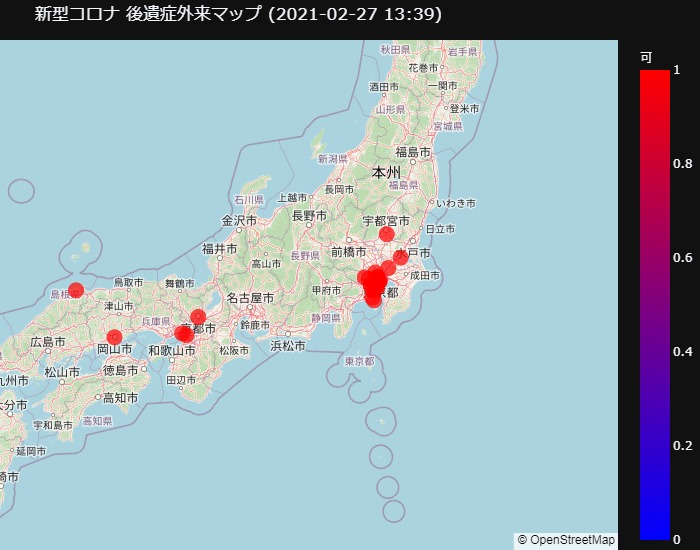
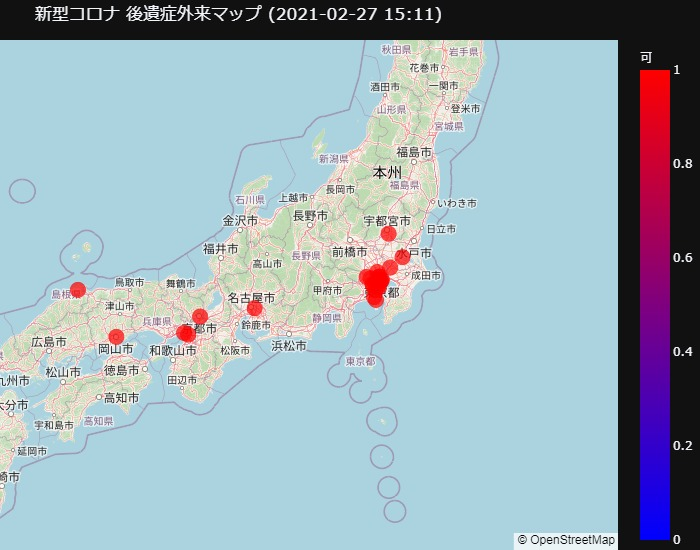
Updated with latest data.

diff --git a/docs/_includes/longcovid-map.html b/docs/_includes/longcovid-map.html
@@ -1,1 +1,1 @@
-<div>                            <div id="fe7bde73-db1b-4cf6-84f1-f7721412630e" class="plotly-graph-div" style="height:550px; width:100%;"></div>            <script type="text/javascript">                                    window.PLOTLYENV=window.PLOTLYENV || {};                                    if (document.getElementById("fe7bde73-db1b-4cf6-84f1-f7721412630e")) {                    Plotly.newPlot(                        "fe7bde73-db1b-4cf6-84f1-f7721412630e",                        [{"customdata": [["-", "-", "2\u9031\u9593\u4ee5\u4e0a\u7d4c\u904e"], ["?", "?", "?"], ["\u53ef", "-", "\u521d\u8a3a\u3067\u3082\u53ef"], ["?", "?", "?"], ["?", "?", "?"], ["-", "\u4e00\u65b9", "16\u6b73\u4ee5\u4e0a\u3001\u57fa\u672c\u306f\u6f22\u65b9"], ["-", "-", "2\u301c3\u30ab\u6708\u7d4c\u904e\u3001\u8af8\u75c7\u72b6\u6709"], ["\u53ef", "\u5fc5\u8981", "\u521d\u8a3a\u3067\u3082\u53ef"], ["?", "?", "\u57fa\u672c\u306f\u6f22\u65b9\u3001\u8981\u554f\u5408\u305b"], ["?", "?", "\u57fa\u672c\u306f\u6f22\u65b9\u3001\u8981\u554f\u5408\u305b"], ["?", "?", "\u57fa\u672c\u306f\u6f22\u65b9\u3001\u8981\u554f\u5408\u305b"], ["\u53ef", "-", "\u57fa\u672c\u306f\u6f22\u65b9\u3001\u81ea\u7531\u8a3a\u7642"], ["\u53ef", "-", "-"], ["-", "-", "\u55c5\u899a\u5473\u899a\u969c\u5bb3\u5916\u6765"], ["-", "\u5fc5\u8981", "2\u30ab\u6708\u4ee5\u4e0a\u7d4c\u904e"], ["-", "-", "\u6765\u9662\u304c\u57fa\u672c"], ["\u53ef", "-", "-"], ["-", "-", "\u9694\u96e2\u671f\u9593\u7d42\u4e86"], ["?", "?", "\u7642\u990a\u7d42\u4e86\u5f8c"], ["?", "?", "\u767a\u75c73\u9031\u9593\u5f8c"], ["-", "-", "\u9000\u9662/\u7642\u990a\u5f8c2\u304b\u6708"], ["-", "-", "\u521d\u8a3a\u306f\u5bfe\u9762\u8a3a\u5bdf/\u691c\u67fb"], ["-", "\u5fc5\u8981", "3\u30ab\u6708\u4ee5\u4e0a\u7d4c\u904e"], ["?", "?", "-"], ["-", "?", "-"], ["-", "\u5fc5\u8981", "1\u30ab\u6708\u4ee5\u4e0a\u7d4c\u904e"], ["\u53ef", "-", "\u5bfe\u9762\u8a3a\u7642\u306e\u53ef\u80fd\u6027\u6709"], ["-", "-", "-"], ["-", "-", "1\u30ab\u6708\u4ee5\u4e0a\u7d4c\u904e"]], "hovertemplate": "<b>%{hovertext}</b><br><br>\u53ef=%{marker.color}<br>\u7def\u5ea6=%{lat}<br>\u7d4c\u5ea6=%{lon}<br>\u30aa\u30f3\u30e9\u30a4\u30f3=%{customdata[0]}<br>\u7d39\u4ecb\u72b6=%{customdata[1]}<br>\u6761\u4ef6=%{customdata[2]}<extra></extra>", "hovertext": ["\u30a4\u30f3\u30bf\u30fc\u30d1\u30fc\u30af\u5009\u6301\u547c\u5438\u5668\u5185\u79d1", "\u3064\u3061\u3046\u3089\u6771\u53e3\u30af\u30ea\u30cb\u30c3\u30af", "\u30d2\u30e9\u30cf\u30bf\u30af\u30ea\u30cb\u30c3\u30af", "\u9663\u5185\u8033\u9f3b\u54bd\u5589\u79d1\u30af\u30ea\u30cb\u30c3\u30af", "\u65b0\u4e2d\u91ce\u8033\u9f3b\u54bd\u5589\u79d1\u30af\u30ea\u30cb\u30c3\u30af", "\u5bfa\u7530\u30af\u30ea\u30cb\u30c3\u30af", "\u3082\u3061\u3065\u304d\u8033\u9f3b\u54bd\u5589\u79d1", "\u5317\u91cc\u5927\u5b66\u6771\u6d0b\u533b\u5b66\u7dcf\u5408\u7814\u7a76\u6240", "\u5c0f\u91d1\u4e95\u3064\u308b\u304b\u3081\u30af\u30ea\u30cb\u30c3\u30af", "\u307f\u306e\u3084\u307e\u30af\u30ea\u30cb\u30c3\u30af", "\u307f\u306e\u3084\u307e\u30af\u30ea\u30cb\u30c3\u30af\u7acb\u5ddd", "\u6771\u6587\u4e2d\u91ab\u30af\u30ea\u30cb\u30c3\u30af\u30fb\u65b0\u6a4b", "\u516c\u5e73\u75c5\u9662", "\u30af\u30ea\u30cb\u30c3\u30af\u67cf\u306e\u8449", "\u8056\u30de\u30ea\u30a2\u30f3\u30ca\u533b\u79d1\u5927\u5b66\u75c5\u9662", "\u6a2a\u6d5c\u304b\u3093\u3060\u3044\u3058\u30d5\u30a1\u30df\u30ea\u30fc\u30af\u30ea\u30cb\u30c3\u30af", "\u68b6\u304c\u8c37\u99c5\u524d\u30af\u30ea\u30cb\u30c3\u30af", "\u65b0\u5ddd\u5d0e\u3080\u3089\u305b\u5185\u79d1\u5faa\u74b0\u5668\u5185\u79d1", "\u6a2a\u6d5c\u307f\u306a\u3068\u547c\u5438\u5668\u5185\u79d1", "\u6e58\u5357\u75c5\u9662", "\u7b2c\u4e8c\u5ddd\u5d0e\u5e78\u30af\u30ea\u30cb\u30c3\u30af", "\u571f\u5c4b\u8a18\u5ff5\u30af\u30ea\u30cb\u30c3\u30af", "\u30ca\u30ab\u30c8\u30df\u30d5\u30a1\u30c6\u30a3\u30fc\u30b0\u30b1\u30a2\u30af\u30ea\u30cb\u30c3\u30af", "\u5fa1\u6240\u5357\u306f\u3089\u3057\u307e\u30af\u30ea\u30cb\u30c3\u30af", "\u9577\u5c3e\u30af\u30ea\u30cb\u30c3\u30af", "\u5ca1\u5c71\u5927\u5b66\u75c5\u9662", "\u798f\u7530\u5185\u79d1\u30af\u30ea\u30cb\u30c3\u30af", "\u5929\u795e\u3051\u3084\u304d\u30af\u30ea\u30cb\u30c3\u30af", "\u307f\u3089\u3044\u30af\u30ea\u30cb\u30c3\u30af"], "lat": [36.49421483, 36.07817712, 35.66099144, 35.67554272, 35.69746127, 35.72952117, 35.73184532, 35.64615518, 35.70092207, 35.65562198, 35.72698343, 35.66930295, 35.81312769, 35.89270812, 35.60075469, 35.48523182, 35.5937929, 35.55188904, 35.36818996, 35.31605077, 35.53647462, 35.57040779, 34.690363399999995, 35.01644912, 34.72288787, 34.65090647, 35.49501807, 33.58607487, 33.59038441], "legendgroup": "", "lon": [139.9027937, 140.207013, 139.70208080000003, 139.6681197, 139.6692997, 139.6931743, 139.7026409, 139.72627219999998, 139.5058372, 139.73607180000002, 139.4179435, 139.7537904, 139.6527044, 139.9377533, 139.5488861, 139.61037869999998, 139.6063036, 139.6629341, 139.58114630000003, 139.6242106, 139.689216, 139.55500580000003, 135.49824080000002, 135.76120600000002, 135.4083263, 133.9206308, 133.0761817, 130.3950466, 130.423525], "marker": {"color": [1, 1, 1, 1, 1, 1, 1, 1, 1, 1, 1, 1, 1, 1, 1, 1, 1, 1, 1, 1, 1, 1, 1, 1, 1, 1, 1, 0, 1], "coloraxis": "coloraxis", "size": [1, 1, 1, 1, 1, 1, 1, 1, 1, 1, 1, 1, 1, 1, 1, 1, 1, 1, 1, 1, 1, 1, 1, 1, 1, 1, 1, 0, 1], "sizemode": "area", "sizeref": 0.006944444444444444}, "mode": "markers", "name": "", "showlegend": false, "subplot": "mapbox", "type": "scattermapbox"}],                        {"coloraxis": {"colorbar": {"title": {"text": "\u53ef"}}, "colorscale": [[0.0, "rgb(0,0,255)"], [1.0, "rgb(255,0,0)"]]}, "height": 550, "legend": {"itemsizing": "constant", "tracegroupgap": 0}, "mapbox": {"center": {"lat": 35.41198107206896, "lon": 138.19437011379313}, "domain": {"x": [0.0, 1.0], "y": [0.0, 1.0]}, "style": "open-street-map", "zoom": 5}, "margin": {"b": 0, "l": 0, "r": 0, "t": 40}, "template": {"data": {"bar": [{"error_x": {"color": "#f2f5fa"}, "error_y": {"color": "#f2f5fa"}, "marker": {"line": {"color": "rgb(17,17,17)", "width": 0.5}}, "type": "bar"}], "barpolar": [{"marker": {"line": {"color": "rgb(17,17,17)", "width": 0.5}}, "type": "barpolar"}], "carpet": [{"aaxis": {"endlinecolor": "#A2B1C6", "gridcolor": "#506784", "linecolor": "#506784", "minorgridcolor": "#506784", "startlinecolor": "#A2B1C6"}, "baxis": {"endlinecolor": "#A2B1C6", "gridcolor": "#506784", "linecolor": "#506784", "minorgridcolor": "#506784", "startlinecolor": "#A2B1C6"}, "type": "carpet"}], "choropleth": [{"colorbar": {"outlinewidth": 0, "ticks": ""}, "type": "choropleth"}], "contour": [{"colorbar": {"outlinewidth": 0, "ticks": ""}, "colorscale": [[0.0, "#0d0887"], [0.1111111111111111, "#46039f"], [0.2222222222222222, "#7201a8"], [0.3333333333333333, "#9c179e"], [0.4444444444444444, "#bd3786"], [0.5555555555555556, "#d8576b"], [0.6666666666666666, "#ed7953"], [0.7777777777777778, "#fb9f3a"], [0.8888888888888888, "#fdca26"], [1.0, "#f0f921"]], "type": "contour"}], "contourcarpet": [{"colorbar": {"outlinewidth": 0, "ticks": ""}, "type": "contourcarpet"}], "heatmap": [{"colorbar": {"outlinewidth": 0, "ticks": ""}, "colorscale": [[0.0, "#0d0887"], [0.1111111111111111, "#46039f"], [0.2222222222222222, "#7201a8"], [0.3333333333333333, "#9c179e"], [0.4444444444444444, "#bd3786"], [0.5555555555555556, "#d8576b"], [0.6666666666666666, "#ed7953"], [0.7777777777777778, "#fb9f3a"], [0.8888888888888888, "#fdca26"], [1.0, "#f0f921"]], "type": "heatmap"}], "heatmapgl": [{"colorbar": {"outlinewidth": 0, "ticks": ""}, "colorscale": [[0.0, "#0d0887"], [0.1111111111111111, "#46039f"], [0.2222222222222222, "#7201a8"], [0.3333333333333333, "#9c179e"], [0.4444444444444444, "#bd3786"], [0.5555555555555556, "#d8576b"], [0.6666666666666666, "#ed7953"], [0.7777777777777778, "#fb9f3a"], [0.8888888888888888, "#fdca26"], [1.0, "#f0f921"]], "type": "heatmapgl"}], "histogram": [{"marker": {"colorbar": {"outlinewidth": 0, "ticks": ""}}, "type": "histogram"}], "histogram2d": [{"colorbar": {"outlinewidth": 0, "ticks": ""}, "colorscale": [[0.0, "#0d0887"], [0.1111111111111111, "#46039f"], [0.2222222222222222, "#7201a8"], [0.3333333333333333, "#9c179e"], [0.4444444444444444, "#bd3786"], [0.5555555555555556, "#d8576b"], [0.6666666666666666, "#ed7953"], [0.7777777777777778, "#fb9f3a"], [0.8888888888888888, "#fdca26"], [1.0, "#f0f921"]], "type": "histogram2d"}], "histogram2dcontour": [{"colorbar": {"outlinewidth": 0, "ticks": ""}, "colorscale": [[0.0, "#0d0887"], [0.1111111111111111, "#46039f"], [0.2222222222222222, "#7201a8"], [0.3333333333333333, "#9c179e"], [0.4444444444444444, "#bd3786"], [0.5555555555555556, "#d8576b"], [0.6666666666666666, "#ed7953"], [0.7777777777777778, "#fb9f3a"], [0.8888888888888888, "#fdca26"], [1.0, "#f0f921"]], "type": "histogram2dcontour"}], "mesh3d": [{"colorbar": {"outlinewidth": 0, "ticks": ""}, "type": "mesh3d"}], "parcoords": [{"line": {"colorbar": {"outlinewidth": 0, "ticks": ""}}, "type": "parcoords"}], "pie": [{"automargin": true, "type": "pie"}], "scatter": [{"marker": {"line": {"color": "#283442"}}, "type": "scatter"}], "scatter3d": [{"line": {"colorbar": {"outlinewidth": 0, "ticks": ""}}, "marker": {"colorbar": {"outlinewidth": 0, "ticks": ""}}, "type": "scatter3d"}], "scattercarpet": [{"marker": {"colorbar": {"outlinewidth": 0, "ticks": ""}}, "type": "scattercarpet"}], "scattergeo": [{"marker": {"colorbar": {"outlinewidth": 0, "ticks": ""}}, "type": "scattergeo"}], "scattergl": [{"marker": {"line": {"color": "#283442"}}, "type": "scattergl"}], "scattermapbox": [{"marker": {"colorbar": {"outlinewidth": 0, "ticks": ""}}, "type": "scattermapbox"}], "scatterpolar": [{"marker": {"colorbar": {"outlinewidth": 0, "ticks": ""}}, "type": "scatterpolar"}], "scatterpolargl": [{"marker": {"colorbar": {"outlinewidth": 0, "ticks": ""}}, "type": "scatterpolargl"}], "scatterternary": [{"marker": {"colorbar": {"outlinewidth": 0, "ticks": ""}}, "type": "scatterternary"}], "surface": [{"colorbar": {"outlinewidth": 0, "ticks": ""}, "colorscale": [[0.0, "#0d0887"], [0.1111111111111111, "#46039f"], [0.2222222222222222, "#7201a8"], [0.3333333333333333, "#9c179e"], [0.4444444444444444, "#bd3786"], [0.5555555555555556, "#d8576b"], [0.6666666666666666, "#ed7953"], [0.7777777777777778, "#fb9f3a"], [0.8888888888888888, "#fdca26"], [1.0, "#f0f921"]], "type": "surface"}], "table": [{"cells": {"fill": {"color": "#506784"}, "line": {"color": "rgb(17,17,17)"}}, "header": {"fill": {"color": "#2a3f5f"}, "line": {"color": "rgb(17,17,17)"}}, "type": "table"}]}, "layout": {"annotationdefaults": {"arrowcolor": "#f2f5fa", "arrowhead": 0, "arrowwidth": 1}, "autotypenumbers": "strict", "coloraxis": {"colorbar": {"outlinewidth": 0, "ticks": ""}}, "colorscale": {"diverging": [[0, "#8e0152"], [0.1, "#c51b7d"], [0.2, "#de77ae"], [0.3, "#f1b6da"], [0.4, "#fde0ef"], [0.5, "#f7f7f7"], [0.6, "#e6f5d0"], [0.7, "#b8e186"], [0.8, "#7fbc41"], [0.9, "#4d9221"], [1, "#276419"]], "sequential": [[0.0, "#0d0887"], [0.1111111111111111, "#46039f"], [0.2222222222222222, "#7201a8"], [0.3333333333333333, "#9c179e"], [0.4444444444444444, "#bd3786"], [0.5555555555555556, "#d8576b"], [0.6666666666666666, "#ed7953"], [0.7777777777777778, "#fb9f3a"], [0.8888888888888888, "#fdca26"], [1.0, "#f0f921"]], "sequentialminus": [[0.0, "#0d0887"], [0.1111111111111111, "#46039f"], [0.2222222222222222, "#7201a8"], [0.3333333333333333, "#9c179e"], [0.4444444444444444, "#bd3786"], [0.5555555555555556, "#d8576b"], [0.6666666666666666, "#ed7953"], [0.7777777777777778, "#fb9f3a"], [0.8888888888888888, "#fdca26"], [1.0, "#f0f921"]]}, "colorway": ["#636efa", "#EF553B", "#00cc96", "#ab63fa", "#FFA15A", "#19d3f3", "#FF6692", "#B6E880", "#FF97FF", "#FECB52"], "font": {"color": "#f2f5fa"}, "geo": {"bgcolor": "rgb(17,17,17)", "lakecolor": "rgb(17,17,17)", "landcolor": "rgb(17,17,17)", "showlakes": true, "showland": true, "subunitcolor": "#506784"}, "hoverlabel": {"align": "left"}, "hovermode": "closest", "mapbox": {"style": "dark"}, "paper_bgcolor": "rgb(17,17,17)", "plot_bgcolor": "rgb(17,17,17)", "polar": {"angularaxis": {"gridcolor": "#506784", "linecolor": "#506784", "ticks": ""}, "bgcolor": "rgb(17,17,17)", "radialaxis": {"gridcolor": "#506784", "linecolor": "#506784", "ticks": ""}}, "scene": {"xaxis": {"backgroundcolor": "rgb(17,17,17)", "gridcolor": "#506784", "gridwidth": 2, "linecolor": "#506784", "showbackground": true, "ticks": "", "zerolinecolor": "#C8D4E3"}, "yaxis": {"backgroundcolor": "rgb(17,17,17)", "gridcolor": "#506784", "gridwidth": 2, "linecolor": "#506784", "showbackground": true, "ticks": "", "zerolinecolor": "#C8D4E3"}, "zaxis": {"backgroundcolor": "rgb(17,17,17)", "gridcolor": "#506784", "gridwidth": 2, "linecolor": "#506784", "showbackground": true, "ticks": "", "zerolinecolor": "#C8D4E3"}}, "shapedefaults": {"line": {"color": "#f2f5fa"}}, "sliderdefaults": {"bgcolor": "#C8D4E3", "bordercolor": "rgb(17,17,17)", "borderwidth": 1, "tickwidth": 0}, "ternary": {"aaxis": {"gridcolor": "#506784", "linecolor": "#506784", "ticks": ""}, "baxis": {"gridcolor": "#506784", "linecolor": "#506784", "ticks": ""}, "bgcolor": "rgb(17,17,17)", "caxis": {"gridcolor": "#506784", "linecolor": "#506784", "ticks": ""}}, "title": {"x": 0.05}, "updatemenudefaults": {"bgcolor": "#506784", "borderwidth": 0}, "xaxis": {"automargin": true, "gridcolor": "#283442", "linecolor": "#506784", "ticks": "", "title": {"standoff": 15}, "zerolinecolor": "#283442", "zerolinewidth": 2}, "yaxis": {"automargin": true, "gridcolor": "#283442", "linecolor": "#506784", "ticks": "", "title": {"standoff": 15}, "zerolinecolor": "#283442", "zerolinewidth": 2}}}, "title": {"text": "\u65b0\u578b\u30b3\u30ed\u30ca \u5f8c\u907a\u75c7\u5916\u6765\u30de\u30c3\u30d7 (2021-02-27 13:39)"}},                        {"responsive": true}                    )                };                            </script>        </div>
+<div>                            <div id="95a9775b-3557-4b0e-aada-617b2b0947d1" class="plotly-graph-div" style="height:550px; width:100%;"></div>            <script type="text/javascript">                                    window.PLOTLYENV=window.PLOTLYENV || {};                                    if (document.getElementById("95a9775b-3557-4b0e-aada-617b2b0947d1")) {                    Plotly.newPlot(                        "95a9775b-3557-4b0e-aada-617b2b0947d1",                        [{"customdata": [["-", "-", "2\u9031\u9593\u4ee5\u4e0a\u7d4c\u904e"], ["?", "?", "?"], ["\u53ef", "-", "\u521d\u8a3a\u3067\u3082\u53ef"], ["?", "?", "?"], ["?", "?", "?"], ["-", "\u4e00\u65b9", "16\u6b73\u4ee5\u4e0a\u3001\u57fa\u672c\u306f\u6f22\u65b9"], ["-", "-", "2\u301c3\u30ab\u6708\u7d4c\u904e\u3001\u8af8\u75c7\u72b6\u6709"], ["\u53ef", "\u5fc5\u8981", "\u521d\u8a3a\u3067\u3082\u53ef"], ["?", "?", "\u57fa\u672c\u306f\u6f22\u65b9\u3001\u8981\u554f\u5408\u305b"], ["?", "?", "\u57fa\u672c\u306f\u6f22\u65b9\u3001\u8981\u554f\u5408\u305b"], ["?", "?", "\u57fa\u672c\u306f\u6f22\u65b9\u3001\u8981\u554f\u5408\u305b"], ["\u53ef", "-", "\u57fa\u672c\u306f\u6f22\u65b9\u3001\u81ea\u7531\u8a3a\u7642"], ["\u53ef", "-", "-"], ["-", "-", "\u55c5\u899a\u5473\u899a\u969c\u5bb3\u5916\u6765"], ["-", "\u5fc5\u8981", "2\u30ab\u6708\u4ee5\u4e0a\u7d4c\u904e"], ["-", "-", "\u6765\u9662\u304c\u57fa\u672c"], ["\u53ef", "-", "-"], ["-", "-", "\u9694\u96e2\u671f\u9593\u7d42\u4e86"], ["?", "?", "\u7642\u990a\u7d42\u4e86\u5f8c"], ["?", "?", "\u767a\u75c73\u9031\u9593\u5f8c"], ["-", "-", "\u9000\u9662/\u7642\u990a\u5f8c2\u304b\u6708"], ["-", "-", "\u521d\u8a3a\u306f\u5bfe\u9762\u8a3a\u5bdf/\u691c\u67fb"], ["-", "-", "-"], ["-", "\u5fc5\u8981", "3\u30ab\u6708\u4ee5\u4e0a\u7d4c\u904e"], ["?", "?", "-"], ["-", "?", "-"], ["-", "\u5fc5\u8981", "1\u30ab\u6708\u4ee5\u4e0a\u7d4c\u904e"], ["\u53ef", "-", "\u5bfe\u9762\u8a3a\u7642\u306e\u53ef\u80fd\u6027\u6709"], ["-", "-", "-"], ["-", "-", "1\u30ab\u6708\u4ee5\u4e0a\u7d4c\u904e"]], "hovertemplate": "<b>%{hovertext}</b><br><br>\u53ef=%{marker.color}<br>\u7def\u5ea6=%{lat}<br>\u7d4c\u5ea6=%{lon}<br>\u30aa\u30f3\u30e9\u30a4\u30f3=%{customdata[0]}<br>\u7d39\u4ecb\u72b6=%{customdata[1]}<br>\u6761\u4ef6=%{customdata[2]}<extra></extra>", "hovertext": ["\u30a4\u30f3\u30bf\u30fc\u30d1\u30fc\u30af\u5009\u6301\u547c\u5438\u5668\u5185\u79d1", "\u3064\u3061\u3046\u3089\u6771\u53e3\u30af\u30ea\u30cb\u30c3\u30af", "\u30d2\u30e9\u30cf\u30bf\u30af\u30ea\u30cb\u30c3\u30af", "\u9663\u5185\u8033\u9f3b\u54bd\u5589\u79d1\u30af\u30ea\u30cb\u30c3\u30af", "\u65b0\u4e2d\u91ce\u8033\u9f3b\u54bd\u5589\u79d1\u30af\u30ea\u30cb\u30c3\u30af", "\u5bfa\u7530\u30af\u30ea\u30cb\u30c3\u30af", "\u3082\u3061\u3065\u304d\u8033\u9f3b\u54bd\u5589\u79d1", "\u5317\u91cc\u5927\u5b66\u6771\u6d0b\u533b\u5b66\u7dcf\u5408\u7814\u7a76\u6240", "\u5c0f\u91d1\u4e95\u3064\u308b\u304b\u3081\u30af\u30ea\u30cb\u30c3\u30af", "\u307f\u306e\u3084\u307e\u30af\u30ea\u30cb\u30c3\u30af", "\u307f\u306e\u3084\u307e\u30af\u30ea\u30cb\u30c3\u30af\u7acb\u5ddd", "\u6771\u6587\u4e2d\u91ab\u30af\u30ea\u30cb\u30c3\u30af\u30fb\u65b0\u6a4b", "\u516c\u5e73\u75c5\u9662", "\u30af\u30ea\u30cb\u30c3\u30af\u67cf\u306e\u8449", "\u8056\u30de\u30ea\u30a2\u30f3\u30ca\u533b\u79d1\u5927\u5b66\u75c5\u9662", "\u6a2a\u6d5c\u304b\u3093\u3060\u3044\u3058\u30d5\u30a1\u30df\u30ea\u30fc\u30af\u30ea\u30cb\u30c3\u30af", "\u68b6\u304c\u8c37\u99c5\u524d\u30af\u30ea\u30cb\u30c3\u30af", "\u65b0\u5ddd\u5d0e\u3080\u3089\u305b\u5185\u79d1\u5faa\u74b0\u5668\u5185\u79d1", "\u6a2a\u6d5c\u307f\u306a\u3068\u547c\u5438\u5668\u5185\u79d1", "\u6e58\u5357\u75c5\u9662", "\u7b2c\u4e8c\u5ddd\u5d0e\u5e78\u30af\u30ea\u30cb\u30c3\u30af", "\u571f\u5c4b\u8a18\u5ff5\u30af\u30ea\u30cb\u30c3\u30af", "\u672b\u76db\u5185\u79d1\u30af\u30ea\u30cb\u30c3\u30af", "\u30ca\u30ab\u30c8\u30df\u30d5\u30a1\u30c6\u30a3\u30fc\u30b0\u30b1\u30a2\u30af\u30ea\u30cb\u30c3\u30af", "\u5fa1\u6240\u5357\u306f\u3089\u3057\u307e\u30af\u30ea\u30cb\u30c3\u30af", "\u9577\u5c3e\u30af\u30ea\u30cb\u30c3\u30af", "\u5ca1\u5c71\u5927\u5b66\u75c5\u9662", "\u798f\u7530\u5185\u79d1\u30af\u30ea\u30cb\u30c3\u30af", "\u5929\u795e\u3051\u3084\u304d\u30af\u30ea\u30cb\u30c3\u30af", "\u307f\u3089\u3044\u30af\u30ea\u30cb\u30c3\u30af"], "lat": [36.49421483, 36.07817712, 35.66099144, 35.67554272, 35.69746127, 35.72952117, 35.73184532, 35.64615518, 35.70092207, 35.65562198, 35.72698343, 35.66930295, 35.81312769, 35.89270812, 35.60075469, 35.48523182, 35.5937929, 35.55188904, 35.36818996, 35.31605077, 35.53647462, 35.57040779, 35.16620719, 34.690363399999995, 35.01644912, 34.72288787, 34.65090647, 35.49501807, 33.58607487, 33.59038441], "legendgroup": "", "lon": [139.9027937, 140.207013, 139.70208080000003, 139.6681197, 139.6692997, 139.6931743, 139.7026409, 139.72627219999998, 139.5058372, 139.73607180000002, 139.4179435, 139.7537904, 139.6527044, 139.9377533, 139.5488861, 139.61037869999998, 139.6063036, 139.6629341, 139.58114630000003, 139.6242106, 139.689216, 139.55500580000003, 136.9580622, 135.49824080000002, 135.76120600000002, 135.4083263, 133.9206308, 133.0761817, 130.3950466, 130.423525], "marker": {"color": [1, 1, 1, 1, 1, 1, 1, 1, 1, 1, 1, 1, 1, 1, 1, 1, 1, 1, 1, 1, 1, 1, 1, 1, 1, 1, 1, 1, 0, 1], "coloraxis": "coloraxis", "size": [1, 1, 1, 1, 1, 1, 1, 1, 1, 1, 1, 1, 1, 1, 1, 1, 1, 1, 1, 1, 1, 1, 1, 1, 1, 1, 1, 1, 0, 1], "sizemode": "area", "sizeref": 0.006944444444444444}, "mode": "markers", "name": "", "showlegend": false, "subplot": "mapbox", "type": "scattermapbox"}],                        {"coloraxis": {"colorbar": {"title": {"text": "\u53ef"}}, "colorscale": [[0.0, "rgb(0,0,255)"], [1.0, "rgb(255,0,0)"]]}, "height": 550, "legend": {"itemsizing": "constant", "tracegroupgap": 0}, "mapbox": {"center": {"lat": 35.40378860933333, "lon": 138.15315985}, "domain": {"x": [0.0, 1.0], "y": [0.0, 1.0]}, "style": "open-street-map", "zoom": 5}, "margin": {"b": 0, "l": 0, "r": 0, "t": 40}, "template": {"data": {"bar": [{"error_x": {"color": "#f2f5fa"}, "error_y": {"color": "#f2f5fa"}, "marker": {"line": {"color": "rgb(17,17,17)", "width": 0.5}}, "type": "bar"}], "barpolar": [{"marker": {"line": {"color": "rgb(17,17,17)", "width": 0.5}}, "type": "barpolar"}], "carpet": [{"aaxis": {"endlinecolor": "#A2B1C6", "gridcolor": "#506784", "linecolor": "#506784", "minorgridcolor": "#506784", "startlinecolor": "#A2B1C6"}, "baxis": {"endlinecolor": "#A2B1C6", "gridcolor": "#506784", "linecolor": "#506784", "minorgridcolor": "#506784", "startlinecolor": "#A2B1C6"}, "type": "carpet"}], "choropleth": [{"colorbar": {"outlinewidth": 0, "ticks": ""}, "type": "choropleth"}], "contour": [{"colorbar": {"outlinewidth": 0, "ticks": ""}, "colorscale": [[0.0, "#0d0887"], [0.1111111111111111, "#46039f"], [0.2222222222222222, "#7201a8"], [0.3333333333333333, "#9c179e"], [0.4444444444444444, "#bd3786"], [0.5555555555555556, "#d8576b"], [0.6666666666666666, "#ed7953"], [0.7777777777777778, "#fb9f3a"], [0.8888888888888888, "#fdca26"], [1.0, "#f0f921"]], "type": "contour"}], "contourcarpet": [{"colorbar": {"outlinewidth": 0, "ticks": ""}, "type": "contourcarpet"}], "heatmap": [{"colorbar": {"outlinewidth": 0, "ticks": ""}, "colorscale": [[0.0, "#0d0887"], [0.1111111111111111, "#46039f"], [0.2222222222222222, "#7201a8"], [0.3333333333333333, "#9c179e"], [0.4444444444444444, "#bd3786"], [0.5555555555555556, "#d8576b"], [0.6666666666666666, "#ed7953"], [0.7777777777777778, "#fb9f3a"], [0.8888888888888888, "#fdca26"], [1.0, "#f0f921"]], "type": "heatmap"}], "heatmapgl": [{"colorbar": {"outlinewidth": 0, "ticks": ""}, "colorscale": [[0.0, "#0d0887"], [0.1111111111111111, "#46039f"], [0.2222222222222222, "#7201a8"], [0.3333333333333333, "#9c179e"], [0.4444444444444444, "#bd3786"], [0.5555555555555556, "#d8576b"], [0.6666666666666666, "#ed7953"], [0.7777777777777778, "#fb9f3a"], [0.8888888888888888, "#fdca26"], [1.0, "#f0f921"]], "type": "heatmapgl"}], "histogram": [{"marker": {"colorbar": {"outlinewidth": 0, "ticks": ""}}, "type": "histogram"}], "histogram2d": [{"colorbar": {"outlinewidth": 0, "ticks": ""}, "colorscale": [[0.0, "#0d0887"], [0.1111111111111111, "#46039f"], [0.2222222222222222, "#7201a8"], [0.3333333333333333, "#9c179e"], [0.4444444444444444, "#bd3786"], [0.5555555555555556, "#d8576b"], [0.6666666666666666, "#ed7953"], [0.7777777777777778, "#fb9f3a"], [0.8888888888888888, "#fdca26"], [1.0, "#f0f921"]], "type": "histogram2d"}], "histogram2dcontour": [{"colorbar": {"outlinewidth": 0, "ticks": ""}, "colorscale": [[0.0, "#0d0887"], [0.1111111111111111, "#46039f"], [0.2222222222222222, "#7201a8"], [0.3333333333333333, "#9c179e"], [0.4444444444444444, "#bd3786"], [0.5555555555555556, "#d8576b"], [0.6666666666666666, "#ed7953"], [0.7777777777777778, "#fb9f3a"], [0.8888888888888888, "#fdca26"], [1.0, "#f0f921"]], "type": "histogram2dcontour"}], "mesh3d": [{"colorbar": {"outlinewidth": 0, "ticks": ""}, "type": "mesh3d"}], "parcoords": [{"line": {"colorbar": {"outlinewidth": 0, "ticks": ""}}, "type": "parcoords"}], "pie": [{"automargin": true, "type": "pie"}], "scatter": [{"marker": {"line": {"color": "#283442"}}, "type": "scatter"}], "scatter3d": [{"line": {"colorbar": {"outlinewidth": 0, "ticks": ""}}, "marker": {"colorbar": {"outlinewidth": 0, "ticks": ""}}, "type": "scatter3d"}], "scattercarpet": [{"marker": {"colorbar": {"outlinewidth": 0, "ticks": ""}}, "type": "scattercarpet"}], "scattergeo": [{"marker": {"colorbar": {"outlinewidth": 0, "ticks": ""}}, "type": "scattergeo"}], "scattergl": [{"marker": {"line": {"color": "#283442"}}, "type": "scattergl"}], "scattermapbox": [{"marker": {"colorbar": {"outlinewidth": 0, "ticks": ""}}, "type": "scattermapbox"}], "scatterpolar": [{"marker": {"colorbar": {"outlinewidth": 0, "ticks": ""}}, "type": "scatterpolar"}], "scatterpolargl": [{"marker": {"colorbar": {"outlinewidth": 0, "ticks": ""}}, "type": "scatterpolargl"}], "scatterternary": [{"marker": {"colorbar": {"outlinewidth": 0, "ticks": ""}}, "type": "scatterternary"}], "surface": [{"colorbar": {"outlinewidth": 0, "ticks": ""}, "colorscale": [[0.0, "#0d0887"], [0.1111111111111111, "#46039f"], [0.2222222222222222, "#7201a8"], [0.3333333333333333, "#9c179e"], [0.4444444444444444, "#bd3786"], [0.5555555555555556, "#d8576b"], [0.6666666666666666, "#ed7953"], [0.7777777777777778, "#fb9f3a"], [0.8888888888888888, "#fdca26"], [1.0, "#f0f921"]], "type": "surface"}], "table": [{"cells": {"fill": {"color": "#506784"}, "line": {"color": "rgb(17,17,17)"}}, "header": {"fill": {"color": "#2a3f5f"}, "line": {"color": "rgb(17,17,17)"}}, "type": "table"}]}, "layout": {"annotationdefaults": {"arrowcolor": "#f2f5fa", "arrowhead": 0, "arrowwidth": 1}, "autotypenumbers": "strict", "coloraxis": {"colorbar": {"outlinewidth": 0, "ticks": ""}}, "colorscale": {"diverging": [[0, "#8e0152"], [0.1, "#c51b7d"], [0.2, "#de77ae"], [0.3, "#f1b6da"], [0.4, "#fde0ef"], [0.5, "#f7f7f7"], [0.6, "#e6f5d0"], [0.7, "#b8e186"], [0.8, "#7fbc41"], [0.9, "#4d9221"], [1, "#276419"]], "sequential": [[0.0, "#0d0887"], [0.1111111111111111, "#46039f"], [0.2222222222222222, "#7201a8"], [0.3333333333333333, "#9c179e"], [0.4444444444444444, "#bd3786"], [0.5555555555555556, "#d8576b"], [0.6666666666666666, "#ed7953"], [0.7777777777777778, "#fb9f3a"], [0.8888888888888888, "#fdca26"], [1.0, "#f0f921"]], "sequentialminus": [[0.0, "#0d0887"], [0.1111111111111111, "#46039f"], [0.2222222222222222, "#7201a8"], [0.3333333333333333, "#9c179e"], [0.4444444444444444, "#bd3786"], [0.5555555555555556, "#d8576b"], [0.6666666666666666, "#ed7953"], [0.7777777777777778, "#fb9f3a"], [0.8888888888888888, "#fdca26"], [1.0, "#f0f921"]]}, "colorway": ["#636efa", "#EF553B", "#00cc96", "#ab63fa", "#FFA15A", "#19d3f3", "#FF6692", "#B6E880", "#FF97FF", "#FECB52"], "font": {"color": "#f2f5fa"}, "geo": {"bgcolor": "rgb(17,17,17)", "lakecolor": "rgb(17,17,17)", "landcolor": "rgb(17,17,17)", "showlakes": true, "showland": true, "subunitcolor": "#506784"}, "hoverlabel": {"align": "left"}, "hovermode": "closest", "mapbox": {"style": "dark"}, "paper_bgcolor": "rgb(17,17,17)", "plot_bgcolor": "rgb(17,17,17)", "polar": {"angularaxis": {"gridcolor": "#506784", "linecolor": "#506784", "ticks": ""}, "bgcolor": "rgb(17,17,17)", "radialaxis": {"gridcolor": "#506784", "linecolor": "#506784", "ticks": ""}}, "scene": {"xaxis": {"backgroundcolor": "rgb(17,17,17)", "gridcolor": "#506784", "gridwidth": 2, "linecolor": "#506784", "showbackground": true, "ticks": "", "zerolinecolor": "#C8D4E3"}, "yaxis": {"backgroundcolor": "rgb(17,17,17)", "gridcolor": "#506784", "gridwidth": 2, "linecolor": "#506784", "showbackground": true, "ticks": "", "zerolinecolor": "#C8D4E3"}, "zaxis": {"backgroundcolor": "rgb(17,17,17)", "gridcolor": "#506784", "gridwidth": 2, "linecolor": "#506784", "showbackground": true, "ticks": "", "zerolinecolor": "#C8D4E3"}}, "shapedefaults": {"line": {"color": "#f2f5fa"}}, "sliderdefaults": {"bgcolor": "#C8D4E3", "bordercolor": "rgb(17,17,17)", "borderwidth": 1, "tickwidth": 0}, "ternary": {"aaxis": {"gridcolor": "#506784", "linecolor": "#506784", "ticks": ""}, "baxis": {"gridcolor": "#506784", "linecolor": "#506784", "ticks": ""}, "bgcolor": "rgb(17,17,17)", "caxis": {"gridcolor": "#506784", "linecolor": "#506784", "ticks": ""}}, "title": {"x": 0.05}, "updatemenudefaults": {"bgcolor": "#506784", "borderwidth": 0}, "xaxis": {"automargin": true, "gridcolor": "#283442", "linecolor": "#506784", "ticks": "", "title": {"standoff": 15}, "zerolinecolor": "#283442", "zerolinewidth": 2}, "yaxis": {"automargin": true, "gridcolor": "#283442", "linecolor": "#506784", "ticks": "", "title": {"standoff": 15}, "zerolinecolor": "#283442", "zerolinewidth": 2}}}, "title": {"text": "\u65b0\u578b\u30b3\u30ed\u30ca \u5f8c\u907a\u75c7\u5916\u6765\u30de\u30c3\u30d7 (2021-02-27 15:11)"}},                        {"responsive": true}                    )                };                            </script>        </div>

diff --git a/docs/_includes/longcovid-table.html b/docs/_includes/longcovid-table.html
@@ -44,11 +44,12 @@
 <tr bgcolor="#000000"><td class="MapsTblColNo">関東</td><td class="MapsTblColSt">神奈川県</td><td class="MapsTblColNm">湘南病院</td><td class="MapsTblColEn">1</td><td class="MapsTblColOL">?</td><td class="MapsTblColRS">?</td><td class="MapsTblColCd">発症3週間後</td><td class="MapsTblColHP"><a href="https://www.shonanhp.or.jp/imeges/main/info-kanpo-2021-2.pdf">HP</a></td></tr>
 <tr bgcolor="#606060"><td class="MapsTblColNo">関東</td><td class="MapsTblColSt">神奈川県</td><td class="MapsTblColNm">第二川崎幸クリニック</td><td class="MapsTblColEn">1</td><td class="MapsTblColOL">-</td><td class="MapsTblColRS">-</td><td class="MapsTblColCd">退院/療養後2か月</td><td class="MapsTblColHP"><a href="https://saiwaicl-2.jp/topics/detail.php?id=610">HP</a></td></tr>
 <tr bgcolor="#000000"><td class="MapsTblColNo">関東</td><td class="MapsTblColSt">神奈川県</td><td class="MapsTblColNm">土屋記念クリニック</td><td class="MapsTblColEn">1</td><td class="MapsTblColOL">-</td><td class="MapsTblColRS">-</td><td class="MapsTblColCd">初診は対面診察/検査</td><td class="MapsTblColHP"><a href="https://tsuchiya-kinen-clinic.com/topics/item766">HP</a></td></tr>
-<tr bgcolor="#606060"><td class="MapsTblColNo">近畿</td><td class="MapsTblColSt">大阪府</td><td class="MapsTblColNm">ナカトミファティーグケアクリニック</td><td class="MapsTblColEn">1</td><td class="MapsTblColOL">-</td><td class="MapsTblColRS">必要</td><td class="MapsTblColCd">3カ月以上経過</td><td class="MapsTblColHP"><a href="http://tukare.jp/news/2020/11/20/post-40.html">HP</a></td></tr>
-<tr bgcolor="#000000"><td class="MapsTblColNo">近畿</td><td class="MapsTblColSt">京都府</td><td class="MapsTblColNm">御所南はらしまクリニック</td><td class="MapsTblColEn">1</td><td class="MapsTblColOL">?</td><td class="MapsTblColRS">?</td><td class="MapsTblColCd">-</td><td class="MapsTblColHP"><a href="https://www.harashimaclinic.com/">HP</a></td></tr>
-<tr bgcolor="#606060"><td class="MapsTblColNo">近畿</td><td class="MapsTblColSt">兵庫県</td><td class="MapsTblColNm">長尾クリニック</td><td class="MapsTblColEn">1</td><td class="MapsTblColOL">-</td><td class="MapsTblColRS">?</td><td class="MapsTblColCd">-</td><td class="MapsTblColHP"><a href="http://blog.drnagao.com/2021/02/post-7498.html">HP</a></td></tr>
-<tr bgcolor="#000000"><td class="MapsTblColNo">中国</td><td class="MapsTblColSt">岡山県</td><td class="MapsTblColNm">岡山大学病院</td><td class="MapsTblColEn">1</td><td class="MapsTblColOL">-</td><td class="MapsTblColRS">必要</td><td class="MapsTblColCd">1カ月以上経過</td><td class="MapsTblColHP"><a href="http://medica.sanyonews.jp/article/18130">HP</a></td></tr>
-<tr bgcolor="#606060"><td class="MapsTblColNo">中国</td><td class="MapsTblColSt">島根県</td><td class="MapsTblColNm">福田内科クリニック</td><td class="MapsTblColEn">1</td><td class="MapsTblColOL">可</td><td class="MapsTblColRS">-</td><td class="MapsTblColCd">対面診療の可能性有</td><td class="MapsTblColHP"><a href="https://clinics.medley.life/clinics/5ae2fe7eccbc572e33a34edd">HP</a></td></tr>
-<tr bgcolor="#000000"><td class="MapsTblColNo">九州</td><td class="MapsTblColSt">福岡県</td><td class="MapsTblColNm">天神けやきクリニック</td><td class="MapsTblColEn">0</td><td class="MapsTblColOL">-</td><td class="MapsTblColRS">-</td><td class="MapsTblColCd">-</td><td class="MapsTblColHP"><a href="https://tenjinkeyaki.com/medical/medical39.html">HP</a></td></tr>
-<tr bgcolor="#606060"><td class="MapsTblColNo">九州</td><td class="MapsTblColSt">福岡県</td><td class="MapsTblColNm">みらいクリニック</td><td class="MapsTblColEn">1</td><td class="MapsTblColOL">-</td><td class="MapsTblColRS">-</td><td class="MapsTblColCd">1カ月以上経過</td><td class="MapsTblColHP"><a href="https://mirai-iryou.com/info/longcovid_20210207/">HP</a></td></tr>
+<tr bgcolor="#606060"><td class="MapsTblColNo">中部</td><td class="MapsTblColSt">愛知県</td><td class="MapsTblColNm">末盛内科クリニック</td><td class="MapsTblColEn">1</td><td class="MapsTblColOL">-</td><td class="MapsTblColRS">-</td><td class="MapsTblColCd">-</td><td class="MapsTblColHP"><a href="https://suemori-clinic.com/2021/02/07/">HP</a></td></tr>
+<tr bgcolor="#000000"><td class="MapsTblColNo">近畿</td><td class="MapsTblColSt">大阪府</td><td class="MapsTblColNm">ナカトミファティーグケアクリニック</td><td class="MapsTblColEn">1</td><td class="MapsTblColOL">-</td><td class="MapsTblColRS">必要</td><td class="MapsTblColCd">3カ月以上経過</td><td class="MapsTblColHP"><a href="http://tukare.jp/news/2020/11/20/post-40.html">HP</a></td></tr>
+<tr bgcolor="#606060"><td class="MapsTblColNo">近畿</td><td class="MapsTblColSt">京都府</td><td class="MapsTblColNm">御所南はらしまクリニック</td><td class="MapsTblColEn">1</td><td class="MapsTblColOL">?</td><td class="MapsTblColRS">?</td><td class="MapsTblColCd">-</td><td class="MapsTblColHP"><a href="https://www.harashimaclinic.com/">HP</a></td></tr>
+<tr bgcolor="#000000"><td class="MapsTblColNo">近畿</td><td class="MapsTblColSt">兵庫県</td><td class="MapsTblColNm">長尾クリニック</td><td class="MapsTblColEn">1</td><td class="MapsTblColOL">-</td><td class="MapsTblColRS">?</td><td class="MapsTblColCd">-</td><td class="MapsTblColHP"><a href="http://blog.drnagao.com/2021/02/post-7498.html">HP</a></td></tr>
+<tr bgcolor="#606060"><td class="MapsTblColNo">中国</td><td class="MapsTblColSt">岡山県</td><td class="MapsTblColNm">岡山大学病院</td><td class="MapsTblColEn">1</td><td class="MapsTblColOL">-</td><td class="MapsTblColRS">必要</td><td class="MapsTblColCd">1カ月以上経過</td><td class="MapsTblColHP"><a href="http://medica.sanyonews.jp/article/18130">HP</a></td></tr>
+<tr bgcolor="#000000"><td class="MapsTblColNo">中国</td><td class="MapsTblColSt">島根県</td><td class="MapsTblColNm">福田内科クリニック</td><td class="MapsTblColEn">1</td><td class="MapsTblColOL">可</td><td class="MapsTblColRS">-</td><td class="MapsTblColCd">対面診療の可能性有</td><td class="MapsTblColHP"><a href="https://clinics.medley.life/clinics/5ae2fe7eccbc572e33a34edd">HP</a></td></tr>
+<tr bgcolor="#606060"><td class="MapsTblColNo">九州</td><td class="MapsTblColSt">福岡県</td><td class="MapsTblColNm">天神けやきクリニック</td><td class="MapsTblColEn">0</td><td class="MapsTblColOL">-</td><td class="MapsTblColRS">-</td><td class="MapsTblColCd">-</td><td class="MapsTblColHP"><a href="https://tenjinkeyaki.com/medical/medical39.html">HP</a></td></tr>
+<tr bgcolor="#000000"><td class="MapsTblColNo">九州</td><td class="MapsTblColSt">福岡県</td><td class="MapsTblColNm">みらいクリニック</td><td class="MapsTblColEn">1</td><td class="MapsTblColOL">-</td><td class="MapsTblColRS">-</td><td class="MapsTblColCd">1カ月以上経過</td><td class="MapsTblColHP"><a href="https://mirai-iryou.com/info/longcovid_20210207/">HP</a></td></tr>
 </tbody></table>
